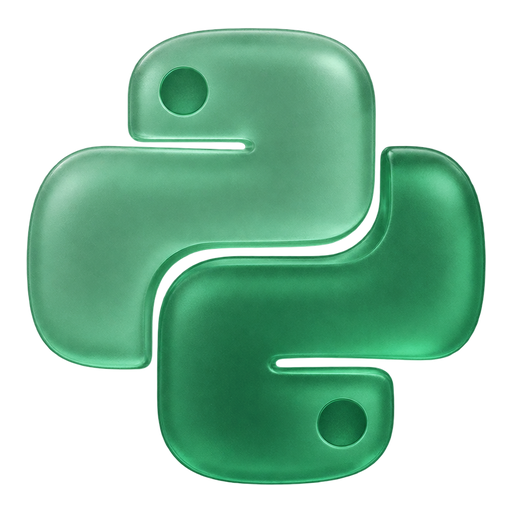
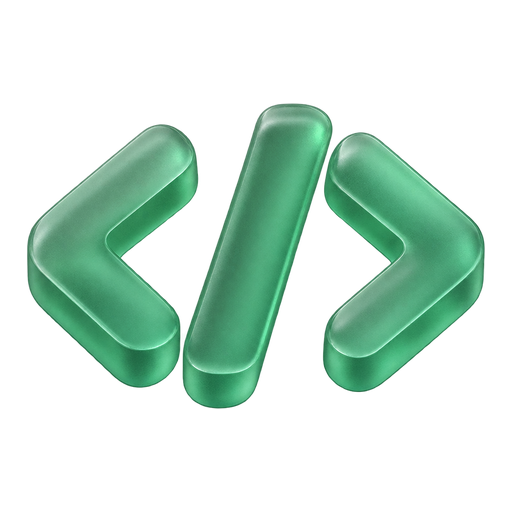
Programovani misto Python s novou ikonou, dlazdice cviceni Sit a poruchy
- dlazdice Python se jmenuje Programovani, klic tematu zustal kvuli adresam
- nova ikona </> vybrana ze tri navrhu
- cviceni site ma v uvodu vlastni dlazdici a tlacitko Zkopirovat zadani
- Co je noveho rika, kde cviceni najit

diff --git a/src/lib/content.ts b/src/lib/content.ts
@@ -1136,6 +1136,7 @@ type Dict = {
     simulators: string;
     simWindows: string;
     simMacos: string;
+    simSit: string;
     /** Řádek pod názvem simulátoru. `{tasks}` je počet úloh i se slovem. */
     simNote: string;
     /** Štítek vpravo na tlačítku simulátoru. */
@@ -1404,6 +1405,7 @@ export const t: Record<Lang, Dict> = {
       simulators: "Simulátory v prohlížeči",
       simWindows: "Virtuální Windows 11",
       simMacos: "Virtuální macOS",
+      simSit: "Windows: Síť a poruchy",
       simNote: "{tasks} · přihlášení jménem",
       simOpen: "Spustit",
       zadatTitle: "Jak zadat simulátor žákům",
@@ -1419,7 +1421,7 @@ export const t: Record<Lang, Dict> = {
       zadatCopied: "Zkopírováno",
       novinkyTitle: "Co je nového v simulátorech",
       novinky: [
-        "Listopad 2026 – Windows: nové samostatné cvičení Síť a poruchy. Žák v Terminálu zjistí adresu, bránu a DNS (ipconfig /all), vyzkouší ping, nslookup a tracert a porovná vnitřní a veřejnou adresu. Pak opraví dva schválně pokažené počítače: jednou nejde internet, podruhé se weby neotevřou podle názvu. Nápovědy si odkrývá po jedné a vidí je jen on.",
+        "Listopad 2026 – Windows: nové samostatné cvičení Síť a poruchy. V běžných Windows ho nenajdeš: otevírá se vlastní dlaždicí nahoře (adresa /windows?scenar=sit) a úlohy jsou v panelu Úkoly vpravo dole. Žák v Terminálu zjistí adresu, bránu a DNS (ipconfig /all), vyzkouší ping, nslookup a tracert a porovná vnitřní a veřejnou adresu. Pak opraví dva schválně pokažené počítače: jednou nejde internet, podruhé se weby neotevřou podle názvu. Nápovědy si odkrývá po jedné a vidí je jen on.",
         "Ve stejném cvičení navíc: Nový router (zapojit kabely podle kontrolek, přihlásit se do správy routeru údaji ze štítku, změnit heslo správy a nastavit Wi-Fi s WPA3), tři další poruchy (vytažený kabel, router nepřiděluje adresy, router nemá internet) a Cizí zařízení ve Wi-Fi (zablokovat ho, silné heslo, vypnout WPS, síť pro hosty). Router i jeho správa jsou smyšlené, žák v nich vymýšlí jen cvičná hesla. Úloh je teď 20 místo 8, dřívější kódy WSIT1- platí dál.",
         "Cvičení má vlastní adresu a vlastní kód postupu WSIT1-. Přehled třídy u něj ukáže i to, co žák při opravě udělal vedle (třeba při poruše brány měnil server DNS) – jako popis toho, co udělal, ne známku.",
         "Windows: ping odpovídá ze skutečné adresy cíle (dřív odpovídal vždycky z brány), nově fungují nslookup, tracert a ipconfig /all. Adresy v „internetu“ jsou z rozsahů vyhrazených pro ukázky.",
@@ -2175,6 +2177,7 @@ export const t: Record<Lang, Dict> = {
       simulators: "Simulators in the browser",
       simWindows: "Virtual Windows 11",
       simMacos: "Virtual macOS",
+      simSit: "Windows: Network and faults",
       simNote: "{tasks} in Czech",
       simOpen: "Open",
       zadatTitle: "How to assign a simulator to students",
@@ -2190,7 +2193,7 @@ export const t: Record<Lang, Dict> = {
       zadatCopied: "Copied",
       novinkyTitle: "What is new in the simulators",
       novinky: [
-        "November 2026 – Windows: a new separate exercise, Network and faults. In the Terminal students find the address, gateway and DNS (ipconfig /all), try ping, nslookup and tracert, and compare the private and public address. Then they fix two deliberately broken computers: once the internet does not work, once websites do not open by name. Hints are revealed one at a time and only the student sees them.",
+        "November 2026 – Windows: a new separate exercise, Network and faults. It is not in the regular Windows simulator: it opens from its own tile above (address /windows?scenar=sit) and the tasks are in the Tasks panel at the bottom right. In the Terminal students find the address, gateway and DNS (ipconfig /all), try ping, nslookup and tracert, and compare the private and public address. Then they fix two deliberately broken computers: once the internet does not work, once websites do not open by name. Hints are revealed one at a time and only the student sees them.",
         "Also in the same exercise: New router (plug in the cables by the status lights, log in to the router admin with the details from the label, change the admin password and set up Wi-Fi with WPA3), three more faults (unplugged cable, the router hands out no addresses, the router has no internet) and A stranger on the Wi-Fi (block the device, a strong password, turn off WPS, a guest network). The router and its admin pages are made up; students only invent practice passwords there. There are now 20 tasks instead of 8; earlier WSIT1- codes still work.",
         "The exercise has its own address and its own progress code WSIT1-. For it the class overview also shows what the student did wrong while fixing (for example changed the DNS server when the gateway was broken) – as a description of what they did, not a grade.",
         "Windows: ping now replies from the real target address (it used to always reply from the gateway); nslookup, tracert and ipconfig /all now work. Addresses on the “internet” come from ranges reserved for documentation.",

diff --git a/src/components/HeroSimulatory.test.tsx b/src/components/HeroSimulatory.test.tsx
@@ -18,7 +18,7 @@ import type { Lang } from "@/lib/content";
 function vykresli(lang: Lang, windows: number, macos: number) {
   return render(
     <LanguageProvider lang={lang}>
-      <HeroSimulatory ulohy={{ windows, macos }} />
+      <HeroSimulatory ulohy={{ windows, macos, sit: 20 }} />
     </LanguageProvider>,
   );
 }
@@ -27,8 +27,8 @@ describe("HeroSimulatory", () => {
   it("vede na oba simulátory", () => {
     vykresli("cs", 33, 14);
     const odkazy = screen.getAllByRole("link").map((a) => a.getAttribute("href"));
-    // Třetí odkaz je v „Co je nového“: cvičení Síť a poruchy (31. 10. 2026).
-    expect(odkazy).toEqual(["/windows", "/macos", "/windows?scenar=sit"]);
+    // Cvičení Síť a poruchy má dlaždici a odkaz v „Co je nového“.
+    expect(odkazy).toEqual(["/windows", "/macos", "/windows?scenar=sit", "/windows?scenar=sit"]);
   });
 
   it("ukáže předaný počet úloh, správně vyskloňovaný, a že se vstupuje jménem", () => {

diff --git a/src/components/HeroSimulatory.tsx b/src/components/HeroSimulatory.tsx
@@ -22,7 +22,7 @@ import type { Lang } from "@/lib/content";
  * se do simulátorů vstupuje jménem, bez kódu.
  */
 
-export type PoctyUloh = { windows: number; macos: number };
+export type PoctyUloh = { windows: number; macos: number; sit: number };
 
 /** Anglicky „tasks“, ne „exercises“ jako na dlaždici – kratší řádek
  *  se v kartě široké 22 rem neořízne. */
@@ -54,6 +54,14 @@ export function HeroSimulatory({ ulohy }: { ulohy: PoctyUloh }) {
       nazev: tr.hero.simMacos,
       pocet: ulohy.macos,
       znak: <ZnakJablko className="h-7 w-7" />,
+    },
+    {
+      // Vlastní dlaždice: cvičení není v běžném /windows a schované jen
+      // v „Co je nového“ se nedalo najít (Karel 1. 11. 2026).
+      href: "/windows?scenar=sit",
+      nazev: tr.hero.simSit,
+      pocet: ulohy.sit,
+      znak: <ZnakWindows className="h-6 w-6" />,
     },
   ];
 

diff --git a/src/components/Site.tsx b/src/components/Site.tsx
@@ -11,7 +11,7 @@ import type { Lang } from "@/lib/content";
 import type { BankItem } from "@/lib/materials";
 import type { Vystup } from "@/lib/aihubLabels";
 import { getBankStats } from "@/lib/heroPick";
-import { UKOLY } from "@/lib/win/ukoly";
+import { UKOLY, UKOLY_SIT } from "@/lib/win/ukoly";
 import { UKOLY_MAC } from "@/lib/mac/ukoly";
 import { t } from "@/lib/content";
 
@@ -37,7 +37,7 @@ export function Site({
         {/* Počty úloh se berou ze skutečných seznamů úloh tady na serveru,
             ať se do prohlížeče nemusí posílat celé simulace. */}
         <Hero
-          ulohy={{ windows: UKOLY.length, macos: UKOLY_MAC.length }}
+          ulohy={{ windows: UKOLY.length, macos: UKOLY_MAC.length, sit: UKOLY_SIT.length }}
           stats={getBankStats(items)}
         />
         <BankSection items={items} />

diff --git a/src/lib/bankLabels.ts b/src/lib/bankLabels.ts
@@ -53,7 +53,8 @@ export const TOOL_LABEL: Record<string, { cs: string; en: string }> = {
   "Operační systémy": { cs: "Operační systémy", en: "Operating systems" },
   Word: { cs: "Word", en: "Word" },
   Excel: { cs: "Excel", en: "Excel" },
-  Python: { cs: "Python", en: "Python" },
+  // Klíč zůstává „Python“: je v adresách ?tema=Python, které si lidé mohli uložit.
+  Python: { cs: "Programování", en: "Programming" },
   "Grafika a multimédia": { cs: "Grafika a multimédia", en: "Graphics & multimedia" },
   "Internet a bezpečnost": { cs: "Internet a bezpečnost", en: "Internet & online safety" },
   "Umělá inteligence": { cs: "Umělá inteligence", en: "Artificial intelligence" },

diff --git a/CLAUDE.md b/CLAUDE.md
@@ -387,6 +387,14 @@ blokuje. Bonus pro rychlíky, uvedeno v plánu hodiny 6.
   „Adresa IPv4 automatické konfigurace“, ping bez sítě „Selhání obecné.“,
   stav v Nastavení u APIPA („Žádné připojení k síti“?).
 
+### Programování a dlaždice cvičení sítě (1. 11. 2026)
+- Dlaždice Python se v bance jmenuje **Programování** (Programming). Klíč tématu
+  zůstal `Python`, protože je v adresách `?tema=Python`. Ikona `python.png` má
+  motiv `</>`, vybral ji Karel ze tří návrhů.
+- Cvičení sítě má v úvodu vlastní dlaždici (`simSit` v HeroSimulatory.tsx) a tím
+  i tlačítko „Zkopírovat zadání“. Dřív k němu vedl jen odkaz v rozbaleném „Co je
+  nového“ a Karel ho nenašel: běžné /windows ho neukazuje.
+
 ## Otevřené / nápady (nic naléhavého)
 
 - Karel si může projít PDF náhledy plánů a listů hodin 1, 4, 6 (vyexportované

diff --git a/scripts/ikony/README.md b/scripts/ikony/README.md
@@ -15,8 +15,7 @@ ve světlém i tmavém režimu, ne zvětšené.
   zjednodušený mozek zase „moc jednoduchý“ – mozek zůstal z původní sady.
 - Předloha stylu = původní ikona databáze (`databaze.png`). Nová ikona
   vzniká s ní jako referencí, jinak do sady nesedne.
-- Motivy: databáze = válce, Python = logo Pythonu (dva hadi, dva odstíny
-  zelené), Power BI = tři sloupce bez podstavy, matematika = ±,
+- Motivy: databáze = válce, programování (soubor python.png) = značka </> (Karel 1. 11. 2026), Power BI = tři sloupce bez podstavy, matematika = ±,
   chemie = baňka, hudební výchova = dvě noty, strojírenství = ozubené kolo,
   Excel = list s ohnutým rohem a mřížkou (ladí s Wordem), grafika = paleta
   se štětcem, angličtina = dvě bubliny rozhovoru.
